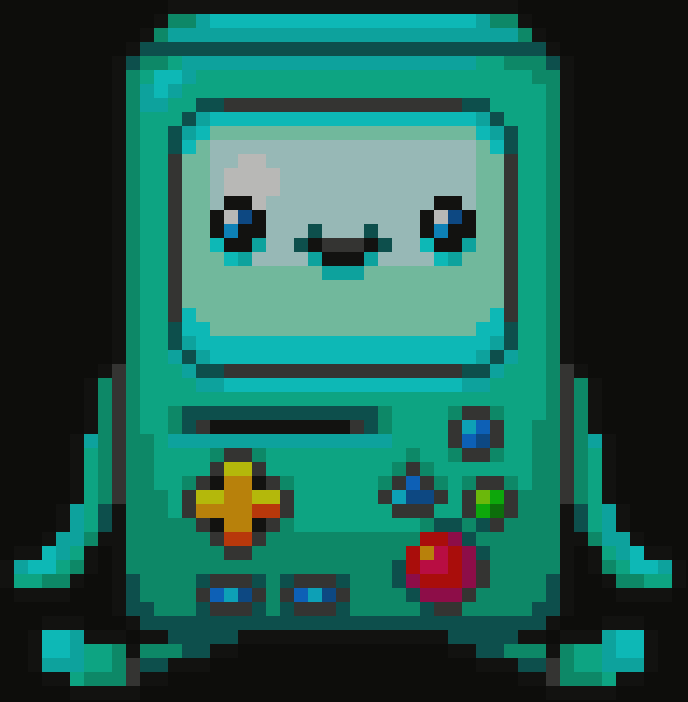
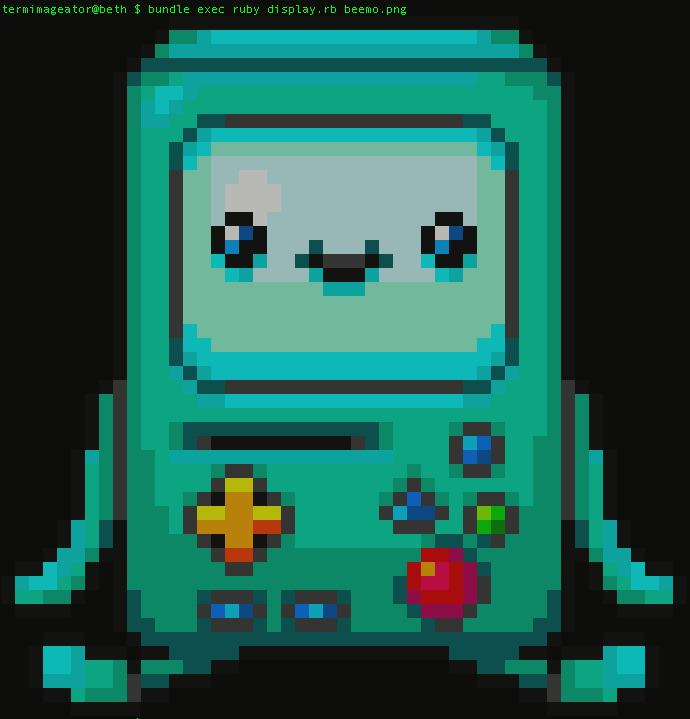
update output and doc

diff --git a/README.md b/README.md
@@ -14,10 +14,10 @@ To run pickle/unpickle use `bundle exec ruby pickle_unpickle.rb filename.png` wh
 
 ##hmmkay
 
-So, the pickling and unpicking thing is all well and good, the real point of this is to display an image in the terminal using `bundle exec display.rb filename.png` which changes
+So, the pickling and unpicking thing is all well and good, the real point of this is to display an image in the terminal using `bundle exec display.rb filename.png` which displays
 
 ![Input Image](https://raw.githubusercontent.com/betandr/termimageator/master/beemo.png)
 
-..to:
+..in the terminal as:
 
 ![Output Image](https://raw.githubusercontent.com/betandr/termimageator/master/beemo_output.png)
